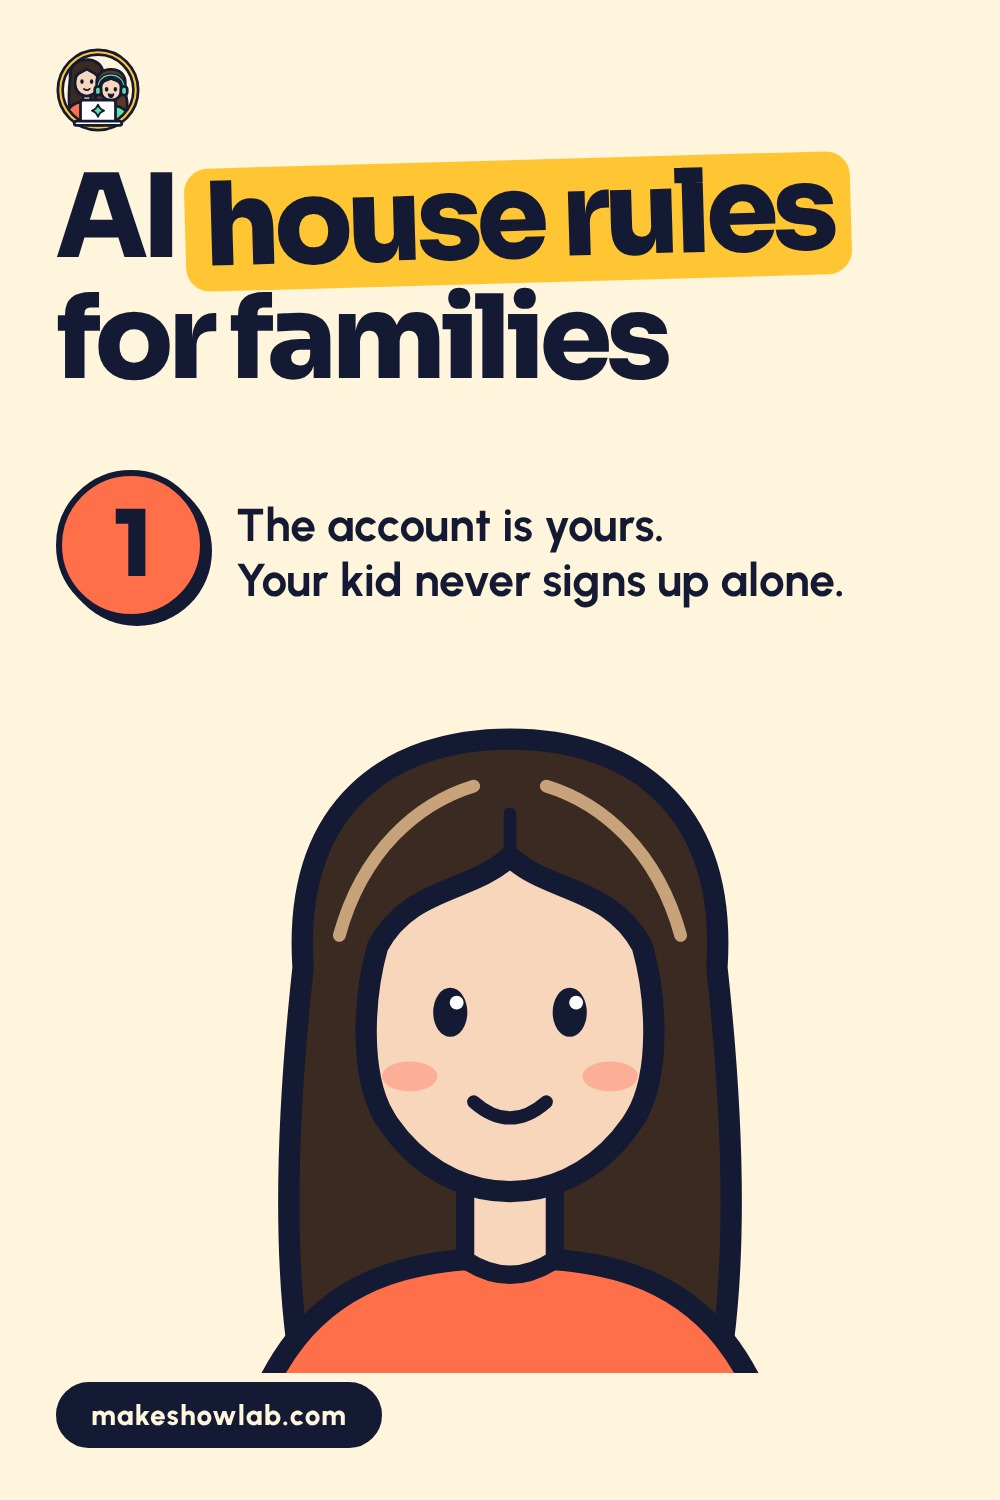
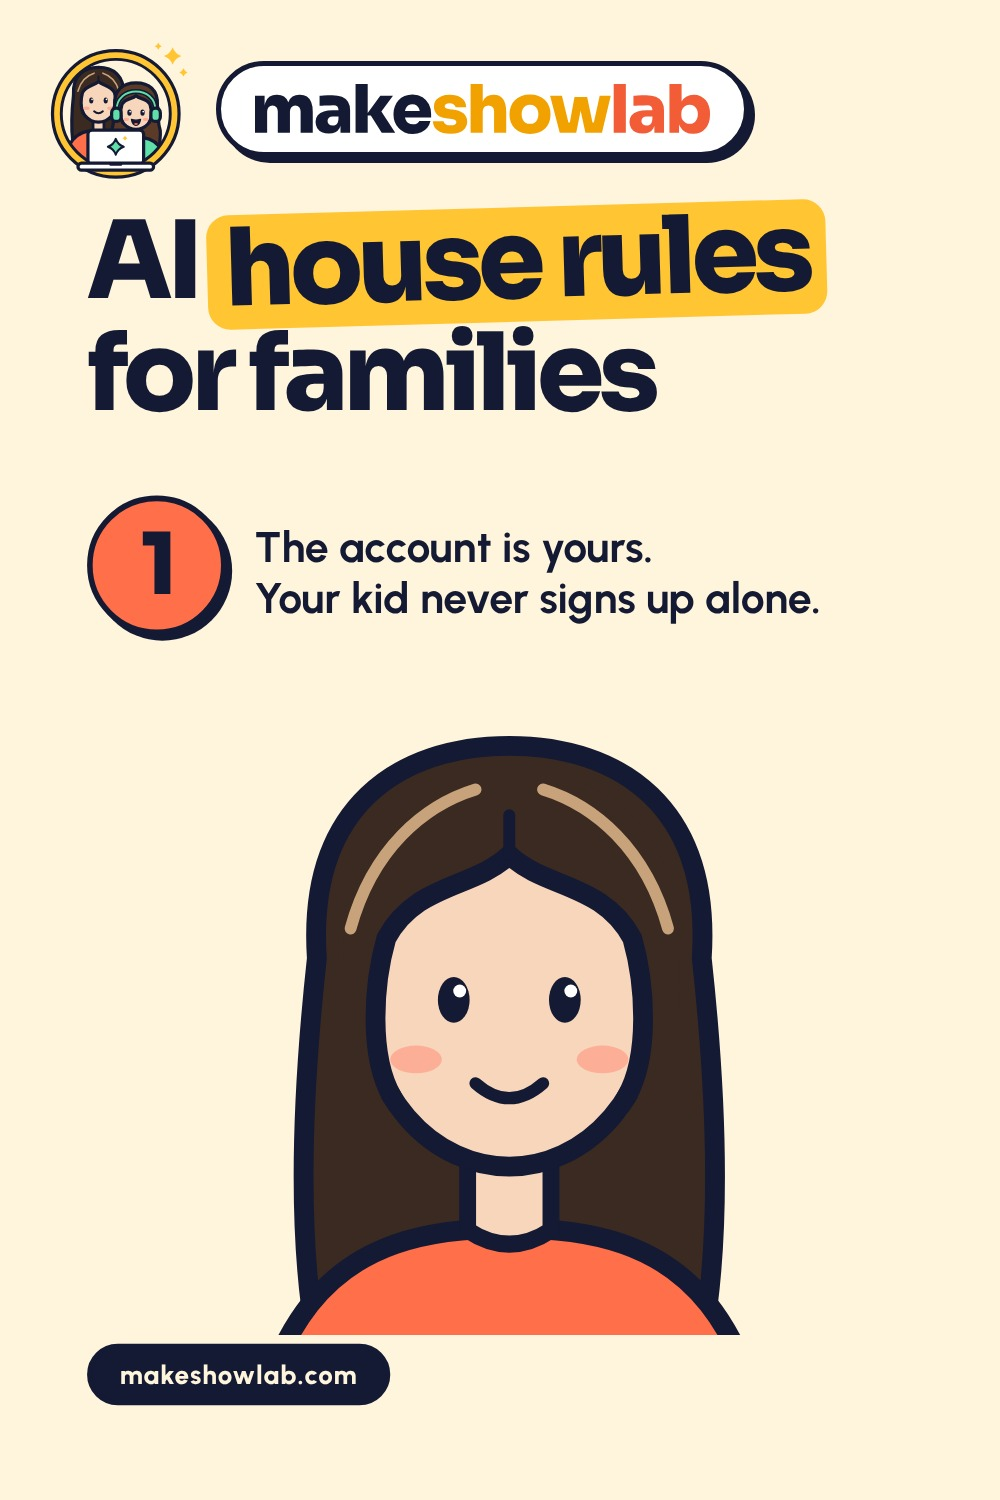
Pinterest: big brand band (mark + wordmark) on every pin, contact sheet of all 18 pins
Claude-Session: https://claude.ai/code/session_01DtGyjPj8iBxY3GMZhcrbkr

Changed region(s): [[0.031, 0.0307, 0.868, 0.276], [0.031, 0.46, 0.775, 0.9813], [0.031, 0.3067, 0.837, 0.4293]]

diff --git a/social/desks/pinterest.md b/social/desks/pinterest.md
@@ -9,6 +9,8 @@
 - 12 пинов 1000×1500 с заголовками, описаниями и alt-текстом
 - 5 досок с названиями и описаниями (`pins/boards.md`)
 - текст профиля
+- на всех пинах сверху крупный знак и надпись makeshowlab на белой плашке (по просьбе владельца); весь макет ужат под эту полосу
+- лист со всеми пинами: `pins/_all-pins.jpg`
 - вторая партия (пины-польза), 6 пинов, ждёт утверждения:
   - памятки (доска AI Safety for Kids): 13 «AI rules for kids poster», 14 «What kids should never tell AI»,
     15 «AI safety checklist for parents»;
@@ -36,6 +38,8 @@ node social/concept/pins.mjs   # проверяет тексты и рисует
 ```
 
 ## Что ждёт решения владельца
+- Metricool: Pinterest подключается и на бесплатном тарифе; лимит постов в месяц общий на бренд (по разным источникам 20 или 50), его делят все площадки
+- страницу-превью пора обновить (пины перерисованы): это общий диалог
 - утвердить вторую партию (пины 13–18)
 - пин 14: список «чего не говорить AI» сверить с уроком Анны про безопасность, до этого не публикуем
 - завести бизнес-аккаунт, создать 5 досок, подключить к Metricool
@@ -52,3 +56,4 @@ node social/concept/pins.mjs   # проверяет тексты и рисует
 - 11.11.2026: подключены три Pinterest-скилла (см. «Скиллы»). Предложено направление «пины-польза»: пин сам
   решает вопрос родителя (памятка, список, шпаргалка), курс только в ссылке. Владелец выбрал памятки и подарки.
 - 11.11.2026: собрана вторая партия, пины 13–18 (3 памятки, 3 подарка к Рождеству), ждёт утверждения.
+- 11.11.2026: на все 18 пинов добавлен крупный логотип с надписью; собран общий лист всех пинов.
